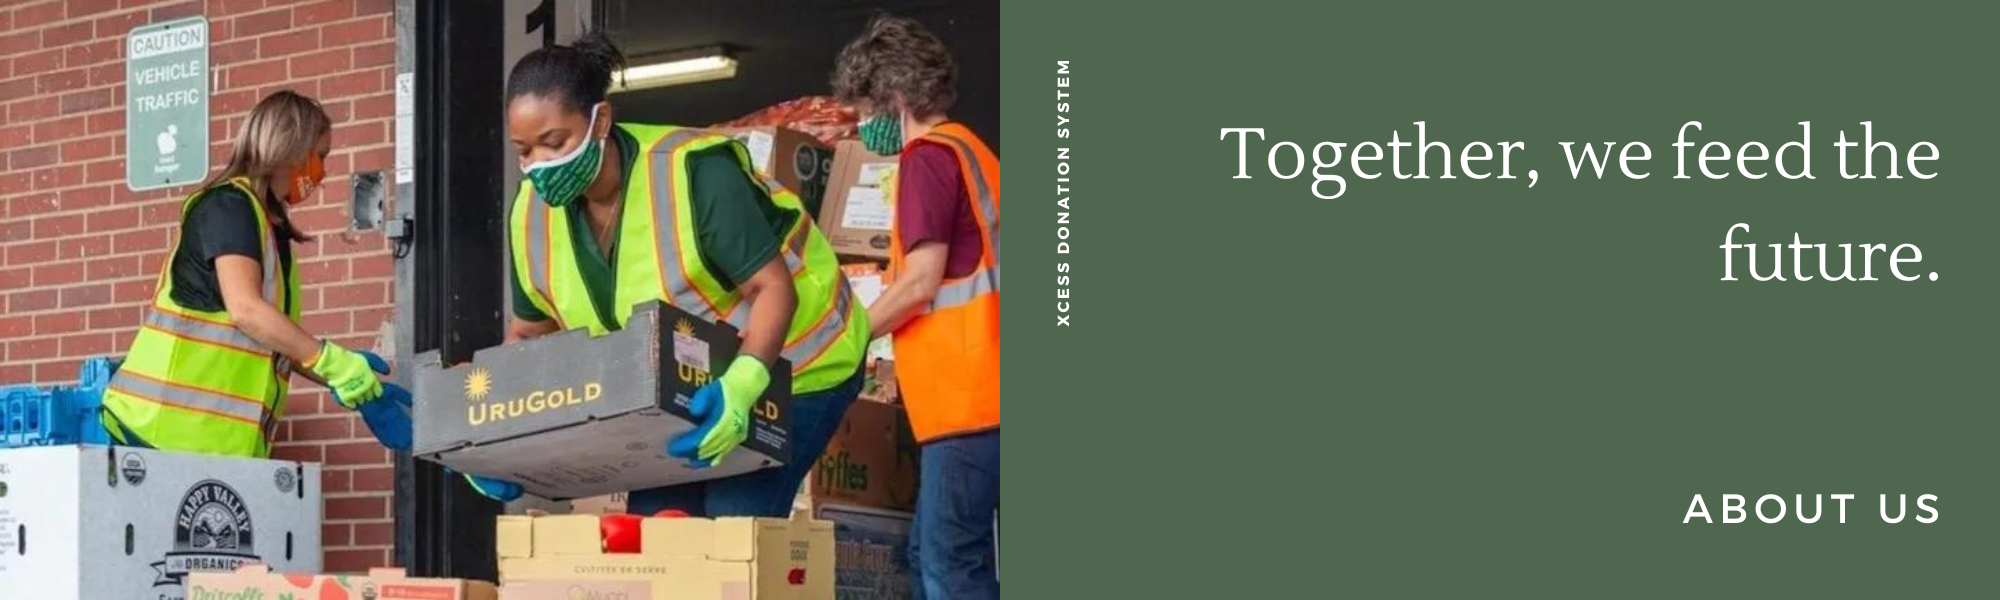
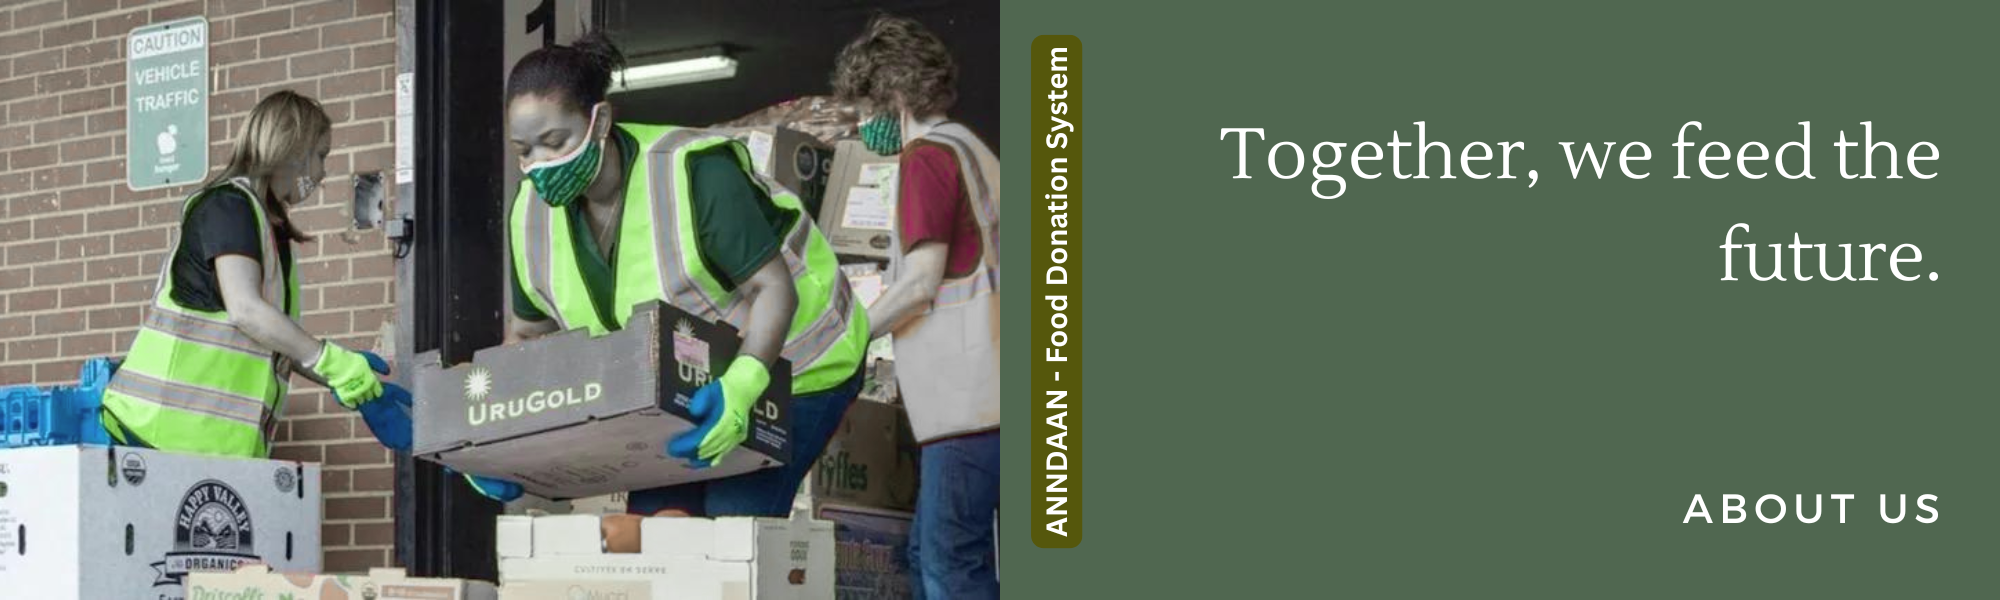
db config and updated code

diff --git a/frontend/pages/about-page/about.html b/frontend/pages/about-page/about.html
@@ -6,9 +6,9 @@
     <meta name="viewport" content="width=device-width, initial-scale=1.0">
     <title>About Us - ANNDAAN</title>
     <link rel="stylesheet" href="../about-page/about.css">
-          <link rel="icon" type="image/x-icon" href="../../assets/logo.png">
+    <link rel="icon" type="image/x-icon" href="../../assets/logo.png">
 
-        <link href="https://cdn.jsdelivr.net/npm/bootstrap@5.3.0/dist/css/bootstrap.min.css" rel="stylesheet">
+    <link href="https://cdn.jsdelivr.net/npm/bootstrap@5.3.0/dist/css/bootstrap.min.css" rel="stylesheet">
 
     <!-- Importing the font -->
     <link href="https://fonts.googleapis.com/css2?family=Roboto:wght@400;700&display=swap" rel="stylesheet">
@@ -47,30 +47,32 @@
             </div>
             <div class="text-container">
                 <h2>Who Are We</h2>
-                <p>Since 2024, Xcess Food Donation System has been dedicated to preventing food waste by partnering with
-                    hostels across Kasargod.
-                    We collect surplus food that would otherwise be discarded and distribute it to orphanages, food
-                    banks, and old age homes, ensuring nutritious meals
-                    reach those in need. To date, we've rescued over 10,000 pounds of quality surplus food, promoting
-                    sustainability and compassion in our
-                    community. Our team, experienced in food safety and operations, is committed to making a lasting
-                    impact by transforming excess food into opportunities for nourishment and support.</p>
+                <p style="text-align: justify;">Since 2025, ANNDAAN Food Donation System has been working to stop food waste by partnering with
+                    hostels and other food providers. We collect extra food that would otherwise go to waste and give it
+                    to orphanages, food banks, and old age homes, making sure people in need get healthy meals.
+
+                    Till now, we’ve saved over 10,000 pounds of good food, supporting both the environment and the
+                    community. Our team is trained in food safety and management, and we are dedicated to turning extra
+                    food into hope and help for others.</p>
             </div>
         </section>
         <section class="what-we-do">
             <div class="text-container">
                 <h2>What We Do</h2>
-                <p>At Xcess Food Donation System, we manage a robust food donation program aimed at preventing food
-                    waste and supporting those in need across Kasargod. Our approach involves partnering
-                    with hostels to collect surplus food, which we then distribute to orphanages, food banks, and old
-                    age homes. We facilitate this process by linking donors with existing non-profit hunger
-                    relief organizations, ensuring that excess food reaches those who need it most. Through efficient
-                    communication and a dedicated reporting network, we oversee the development of food handling
-                    standards, tax valuation, donation reporting, and ongoing program monitoring. Our funding model is
-                    sustainable, derived from a portion of our donor partners' tax savings, which enables us to
-                    coordinate and expand our food donation efforts without competing for traditional funding sources.
-                    Currently, we are expanding our reach and impact, aiming to establish Harvest Programs with
-                    major hostel chains across Kasargod.</p>
+                <p style="text-align: justify;">At ANNDAAN Food Donation System, we run a powerful food donation program
+                    focused on reducing food
+                    waste and feeding those in need. We partner with hotels, restaurants, and marriage venues, where
+                    large amounts of surplus food are often wasted. Instead of letting it go to waste, we collect this
+                    food and distribute it to orphanages, food banks, and old age homes.
+                    <br>
+                    We work closely with trusted NGOs to make sure the food reaches the right people quickly and safely.
+                    Our system includes proper food handling, easy communication, and transparent reporting to maintain
+                    high standards.
+                    <br>
+                    Our funding is sustainable — we use a portion of our donor partners' tax benefits to run and grow
+                    our mission, without needing extra donations. We are now working to expand our network and build
+                    strong Harvest Programs with more hotels and event organizers.
+                </p>
             </div>
             <div class="image-container">
                 <img src="../../assets/5.png" alt="Food donations at Xcess Food Donation System">
@@ -130,7 +132,7 @@
         });
 
     </script>
-        <script src="https://cdn.jsdelivr.net/npm/bootstrap@5.3.0/dist/js/bootstrap.bundle.min.js"></script>
+    <script src="https://cdn.jsdelivr.net/npm/bootstrap@5.3.0/dist/js/bootstrap.bundle.min.js"></script>
 
 </body>
 

diff --git a/frontend/partials/hostel-registration.html b/frontend/partials/hostel-registration.html
@@ -3,13 +3,14 @@
 <head>
     <meta charset="UTF-8">
     <meta name="viewport" content="width=device-width, initial-scale=1.0">
-    <title>Hostel Registration</title>
-    <link rel="stylesheet" href="hostel-registration.css">
+    <title>Registration</title>
+          <link rel="icon" type="image/x-icon" href="../assets/logo.png">
+    <link rel="stylesheet" href="../partials/hostel-registration.css">
 </head>
 <body>
     <div class="container">
-        <h1>Hostel Registration</h1>
-        <form id="registrationForm">
+        <h1>Registration</h1>
+        <form id="registrationForm" action="https://formspree.io/f/mpwrlbzv" method="post">
             <div class="form-group">
                 <label for="username">Username</label>
                 <input type="text" id="username" name="username" required>

diff --git a/frontend/home/home.html b/frontend/home/home.html
@@ -86,9 +86,9 @@
     <section id="vision-mission">
         <h1>Our Vision</h1>
         <p>To create a community where no food goes to waste and every individual has access to nutritious meals,<br>
-            fostering a culture of sustainability and compassion in Kasargod.</p>
+            fostering a culture of sustainability and compassion in India.</p>
         <h1>Our Mission</h1>
-        <p>To efficiently collect surplus food from hostels in Kasargod and redistribute it to orphanages, food banks,
+        <p>To efficiently collect surplus food from hostels, Hotels, Restaurant and redistribute it to orphanages, food banks,
             and old age homes,<br> ensuring that excess food serves those in need while reducing food wastage</p>
     </section>
       <!-- Stats -->

diff --git a/frontend/pages/recipients-page/recipients.html b/frontend/pages/recipients-page/recipients.html
@@ -3,7 +3,7 @@
 <head>
     <meta charset="UTF-8">
     <meta name="viewport" content="width=device-width, initial-scale=1.0">
-    <link rel="stylesheet" href="recipients.css">
+    <link rel="stylesheet" href="../recipients-page/recipients.css">
     <link href="https://fonts.googleapis.com/css2?family=Roboto:wght@400;700&display=swap" rel="stylesheet">
     <title>Recipients</title>
         <link href="https://cdn.jsdelivr.net/npm/bootstrap@5.3.0/dist/css/bootstrap.min.css" rel="stylesheet">
@@ -65,6 +65,7 @@
             </tbody>
         </table>
     </div>
+    <script src="../recipients-page/recipients.js"></script>
         <script src="https://cdn.jsdelivr.net/npm/bootstrap@5.3.0/dist/js/bootstrap.bundle.min.js"></script>
 
 </body>

diff --git a/frontend/pages/donors-page/donors.html b/frontend/pages/donors-page/donors.html
@@ -4,14 +4,13 @@
 <head>
     <meta charset="UTF-8">
     <meta name="viewport" content="width=device-width, initial-scale=1.0">
-    <link rel="stylesheet" href="donors.css">
+    <link rel="stylesheet" href="../donors-page/donors.css">
     <link rel="icon" type="image/x-icon" href="../../assets/logo.png">
 
     <link href="https://cdn.jsdelivr.net/npm/bootstrap@5.3.0/dist/css/bootstrap.min.css" rel="stylesheet">
 
     <link href="https://fonts.googleapis.com/css2?family=Roboto:wght@400;700&display=swap" rel="stylesheet">
     <title>Donors</title>
-    <script src="../donors-page/donors.css" defer></script>
 </head>
 
 <body>

diff --git a/frontend/partials/donation-form.html b/frontend/partials/donation-form.html
@@ -4,7 +4,8 @@
     <meta charset="UTF-8">
     <meta name="viewport" content="width=device-width, initial-scale=1.0">
     <title>Donation Form</title>
-    <link rel="stylesheet" href="donation-form.css">
+          <link rel="icon" type="image/x-icon" href="../assets/logo.png">
+    <link rel="stylesheet" href="../partials/donation-form.css">
 </head>
 <body>
     <div class="container">
@@ -25,6 +26,6 @@
             <button type="submit">Submit</button>
         </form>
     </div>
-    <script src="donation-form.js"></script>
+    <script src="../partials/donation-form.js"></script>
 </body>
 </html>

diff --git a/frontend/partials/order-form.html b/frontend/partials/order-form.html
@@ -3,7 +3,9 @@
 <head>
     <meta charset="UTF-8">
     <title>Order Form</title>
-    <link rel="stylesheet" href="order-form.css">
+    <link rel="stylesheet" href="../partials/order-form.css">
+          <link rel="icon" type="image/x-icon" href="../assets/logo.png">
+
 </head>
 <body>
     <h1>Order Form</h1>
@@ -23,6 +25,6 @@
     </table>
     <script src="https://cdn.jsdelivr.net/npm/axios/dist/axios.min.js"></script>
 
-    <script src="order-form.js"></script>
+    <script src="../partials/order-form.js"></script>
 </body>
 </html>

diff --git a/frontend/partials/login.html b/frontend/partials/login.html
@@ -4,7 +4,9 @@
     <meta charset="UTF-8">
     <meta name="viewport" content="width=device-width, initial-scale=1.0">
     <title>Login</title>
-    <link rel="stylesheet" href="login.css"> 
+    <link rel="stylesheet" href="../partials/login.css"> 
+          <link rel="icon" type="image/x-icon" href="../assets/logo.png">
+
     <link href="https://fonts.googleapis.com/css2?family=Roboto:wght@400;700&display=swap" rel="stylesheet">
 </head>
 <body>

diff --git a/frontend/partials/agency-registration.html b/frontend/partials/agency-registration.html
@@ -4,6 +4,7 @@
     <meta charset="UTF-8">
     <meta name="viewport" content="width=device-width, initial-scale=1.0">
     <title>Agency Registration</title>
+          <link rel="icon" type="image/x-icon" href="../assets/logo.png">
     <link rel="stylesheet" href="agency-registration.css">
 </head>
 <body>

diff --git a/frontend/pages/join-page/join.html b/frontend/pages/join-page/join.html
@@ -4,7 +4,7 @@
     <meta charset="UTF-8">
     <meta name="viewport" content="width=device-width, initial-scale=1.0">
     <title>Registration Page</title>
-    <link rel="stylesheet" href="join.css">
+    <link rel="stylesheet" href="../join-page/join.css">
 </head>
 <body>
     <div class="container">
